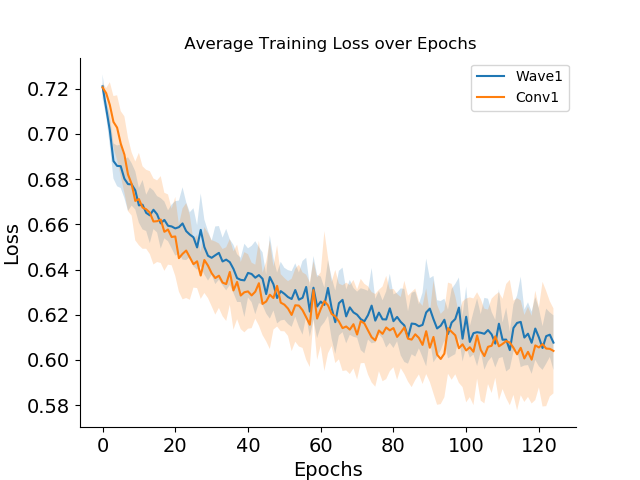
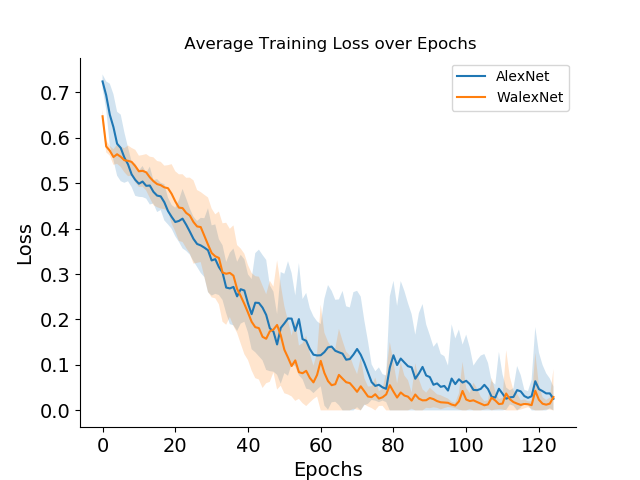
Updated AlexNet aand Walexnet Results

diff --git a/src/Netstats.py b/src/Netstats.py
@@ -1,0 +1,91 @@
+# coding: utf-8
+""" MIT License """
+'''
+    Project: Wavelet DNN
+    Authors: Axel Masquelin
+    Description:
+'''
+# Libraries
+# ---------------------------------------------------------------------------- #
+from sklearn.metrics import roc_curve, auc, confusion_matrix
+from training_testing import *
+from architectures import *
+
+import preprocessing
+import utils
+
+import torchvision.transforms as transforms
+import torch.nn.functional as F
+import torch.optim as optim
+import torch.nn as nn
+import torch.tensor
+import torchvision
+import torch
+
+import matplotlib.pyplot as plt
+import numpy as np
+import cv2, sys, os
+# ---------------------------------------------------------------------------- #
+
+def mutlitest_stats():
+
+
+if __name__ == '__main__':
+    """
+    Definition:
+    Inputs:
+    Outputs:
+    """
+
+    # Network Parameters
+    models = [
+            'Wave1',                # Single Level Wavelet Decomposition Layer extracting 4 features
+            'Conv1',                # Convolutional Layer 4 Feature Extracted
+            # 'inception_wave',       # Multi Level Wavelet Decomposition
+            # 'inception_conv',       # Multiscale Convolutional Module.
+            # 'AlexNet',              # Standard Alexnet Architecture with modified classifier
+            # 'WalexNet',             # Wavelet Alexnet Architecture
+            ]
+
+    metrics = [                     # Select Metric to Evaluate
+            'aucs',                 # Area under the Curve
+            # 'Sensitivity',         # Network Senstivity
+            # 'Specificity',         # Network Specificity
+            # 'epoch            
+            ]
+    
+    # Variable Flags
+    create_violin = True
+    check_stats = True
+
+    # Dataframe Inits
+    df = pd.DataFrame()              # General Dataframe to generate Bar-graph data
+    df_alex = pd.DataFrame()         # AlexeNet Dataframe for violin plots
+    df_walex = pd.DataFrame()        # WalexNet Dataframe for violin plots
+    df_conv1 = pd.DataFrame()        # Conv Layer Dataframe for violin plots
+    df_wave1 = pd.DataFrame()        # Wavelet Layer Dataframe for violin plots
+
+    for root, dirs, files in os.walk(os.getcwd()[0] + "/results/", topdown = True):
+        for name in files:
+            if (name.endswith("aucs.csv")):
+                header = name.split('_')[0]
+                print(name.split('_')[0])
+                headers.append(header)
+                mean_ = []
+                filename = os.path.join(root,name)
+                with open(filename, 'r') as f:
+                    reader = csv.reader(f)
+                    next(reader)
+                    for row in reader:
+                        for l in range(len(row)-1):
+                            mean_.append(float(row[l+1]))
+                df[header] = np.transpose(mean_)
+                if (name.split('_')[0] == 'AlexNet'):
+                    df_alex[name.split('_')[0]] = np.transpose(mean_)
+                if (name.split('_')[0] == 'WalexNet'):
+                    df_walex[name.split('_')[0]] = np.transpose(mean_)
+                if (name.split('_')[0] == 'Conv1'):
+                    df_conv1[name.split('_')[0]] = np.transpose(mean_)
+                if (name.split('_')[0] == 'Wave1'):
+                    df_wave1[name.split('_')[0]] = np.transpose(mean_)
+                        

diff --git a/src/main.py b/src/main.py
@@ -167,15 +167,20 @@ if __name__ == '__main__':
 
     # Network Parameters
     models = [
-            'Wave1',            # Single Level Wavelet Decomposition Layer extracting 4 features
-            'Conv1',            # Convolutional Layer 4 Feature Extracted
+            # 'Wave1',            # Single Level Wavelet Decomposition Layer extracting 4 features
+            # 'Conv1',            # Convolutional Layer 4 Feature Extracted
             # 'inception_wave',   # Multi Level Wavelet Decomposition
             # 'inception_conv',   # Multiscale Convolutional Module.
-            # 'AlexNet',         # Standard Alexnet Architecture with modified classifier
-            # 'WalexNet',        # Wavelet Alexnet Architecture
-            
-            
+            'AlexNet',         # Standard Alexnet Architecture with modified classifier
+            'WalexNet',        # Wavelet Alexnet Architecture
             ]
+
+    wkernel = [
+            'db1',
+            'db2',
+            'sym1',
+            'gaus',
+    ]
 
     opt = {
             'loss': 'entropy',          # entropy or focal

diff --git a/src/architectures.py b/src/architectures.py
@@ -122,7 +122,7 @@ class Conv_1 (nn.Module):
         
         super(Conv_1, self).__init__()
         self.features = nn.Sequential(
-            nn.Conv2d(1, 4, kernel_size= 2, stride= 2, padding = 0),
+            nn.Conv2d(1, 4, kernel_size= 3, stride= 2, padding = 1),
             nn.ReLU(inplace = True),
             # nn.MaxPool2d(kernel_size = 3, stride = 2),
         )
@@ -140,7 +140,7 @@ class Conv_1 (nn.Module):
 
     def forward(self, x, device):
         x = self.features(x)
-        # print(x.size())
+        print(x.size())
         x = self.avgpool(x)
         x = torch.flatten(x, 1)
         x = self.classifier(x)

diff --git a/src/training_testing.py b/src/training_testing.py
@@ -79,7 +79,7 @@ def train(trainloader, testloader, net, device, rep, opt, model):
 
         end = time.time()
         for i, (images, labels) in enumerate(trainloader):
-            
+            # print(images.size())
             # Input
             images = images.to(device)
             labels = labels.to(device)
